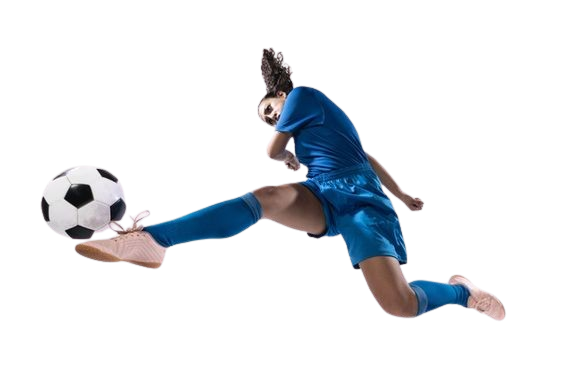
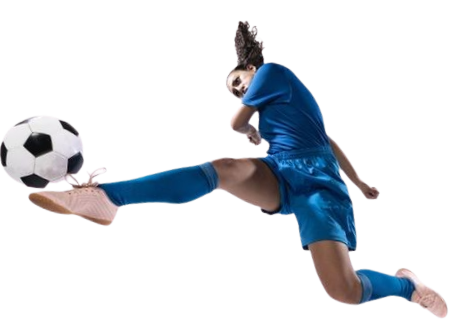
commit

Changed region(s): [[0.0, 0.0625, 0.9432, 1.0]]

diff --git a/index.html b/index.html
@@ -74,14 +74,14 @@
     <!-- What is Starts Here -->
     <div class="container my-5 style1">
         <div class="row">
-            <div class="col-sm">
+            <div class="col-lg">
                 <div class="image-wrapper">
                     <img src="img/about-us.jpg" alt="players">
                 </div>
             </div>
-            <div class="col-sm">
+            <div class="col-lg">
                 <div class="text-content-right">
-                    <h2>What is SportsTxt</h2>
+                    <h2>What is SportsTxt?</h2>
                     <p>Being a sports fan is not just about watching games. SportsTXT is an online platform designed to deliver the ultimate sports fan experience. Engage with other fans, get insider facts about your favorite teams, and so much more.</p>
                 </div>
             </div>
@@ -89,6 +89,22 @@
     </div>
     <!-- What is Ends Here -->
 
+
+    <!-- Mission Starts Here -->
+    <div class="container-fluid our-mission">
+        <div class="container p-4">
+            <div class="row">
+                <div class="col-lg mission-content">
+                    <h2>Our Mission</h2>
+                    <p>Our mission is to provide our users with a seamless and enjoyable  online experience, offering a diverse range of high-quality content  and services that inform, inspire, and engage. Through innovative  design and intuitive functionality, we aim to create a platform that  connects people and facilitates meaningful interactions.</p>
+                </div>
+                <div class="col-lg-3 athlete">
+                    <img src="img/kick.png" alt="Kick">
+                </div>
+            </div>    
+        </div>
+    </div>
+    <!-- Mission Ends Here -->
 
 
     <!-- Bootstrap JS and Popper.js -->

diff --git a/css/style.css b/css/style.css
@@ -144,11 +144,11 @@ nav {
 /* Style1 */
 /* CSS for image and container */
 .style1 {
-    padding: 40px; 
+    padding: 50px; 
 }
 
 .style1 .image-wrapper {
-    width: 90%; 
+    width: 100%; 
     height: 300px; 
     position: relative; 
 }
@@ -167,12 +167,15 @@ nav {
     position: relative;
 }
 
-.style1 .col-sm {
+.style1 .col-lg {
     flex: 1;
     display: flex;
     justify-content: center;
     align-items: center;
 }
+
+
+
 /* LANDING PAGE */
 .hero {
     position: relative;
@@ -197,13 +200,41 @@ nav {
     z-index: 2;
 }
 
-
 .cta-block1 {
     margin: 0;
     color: var(--white);
     background: var(--red-gradient);
 }
 
+.our-mission {
+    position: relative;
+    width: 100%;
+    background: url('../img/red-blue.png') no-repeat center center/cover;
+    display: flex;
+    align-items: center;
+    justify-content: center;
+    color: white;
+    text-align: left;
+}
+
+.mission-content {
+    width: 80%;
+    padding: 50px;
+}
+
+.col-lg-3.athlete {
+    position: absolute; 
+    top: -200px; 
+    right: 0; 
+    width: 500px; 
+    height: auto;
+    z-index: 0; 
+}
+
+.athlete img {
+    width: 100%; 
+    height: auto;
+}
 
 
 
